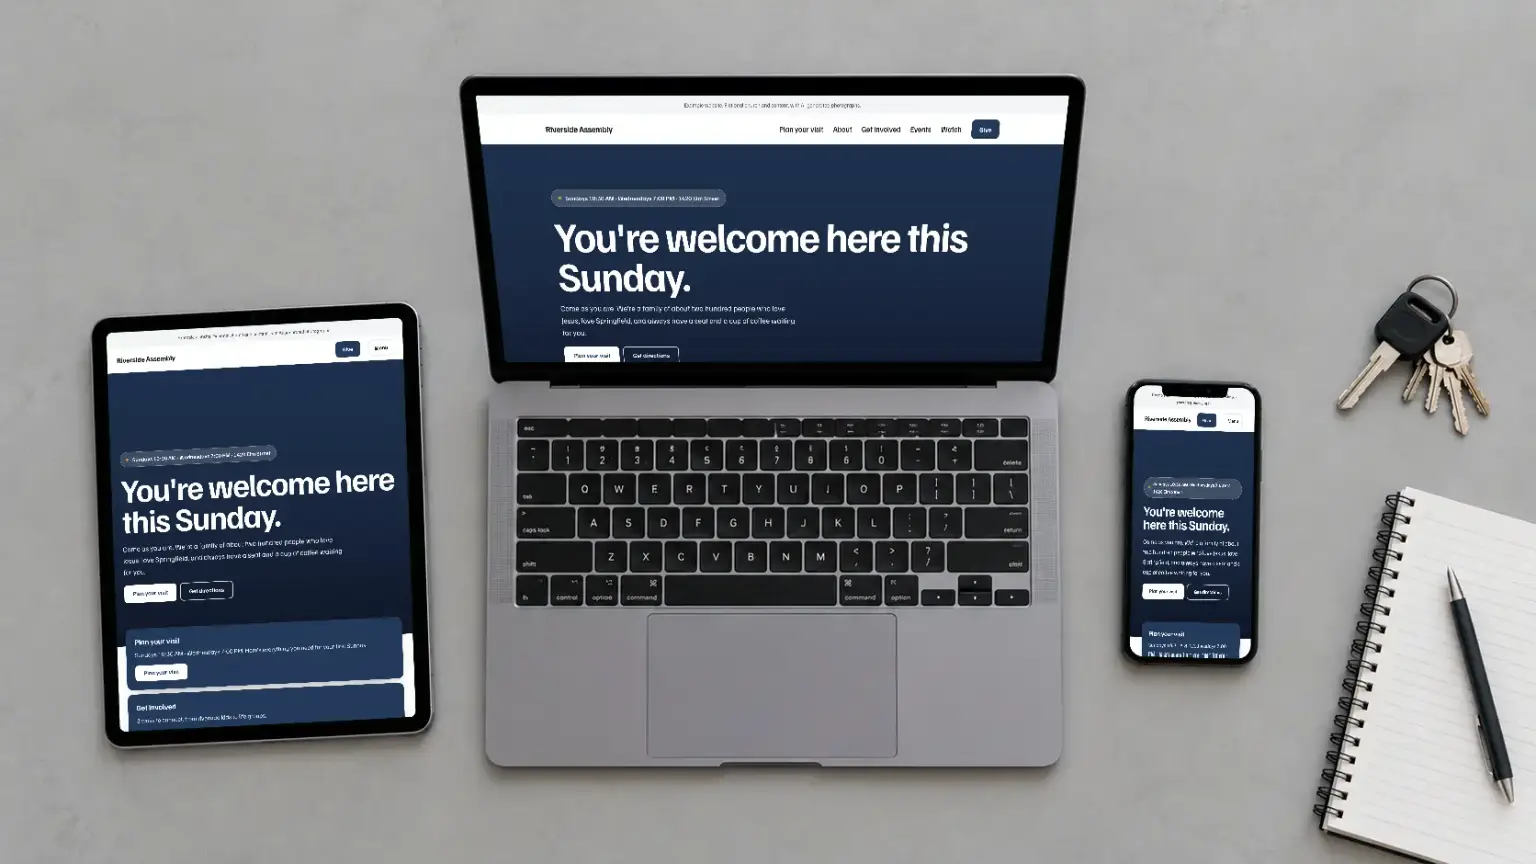
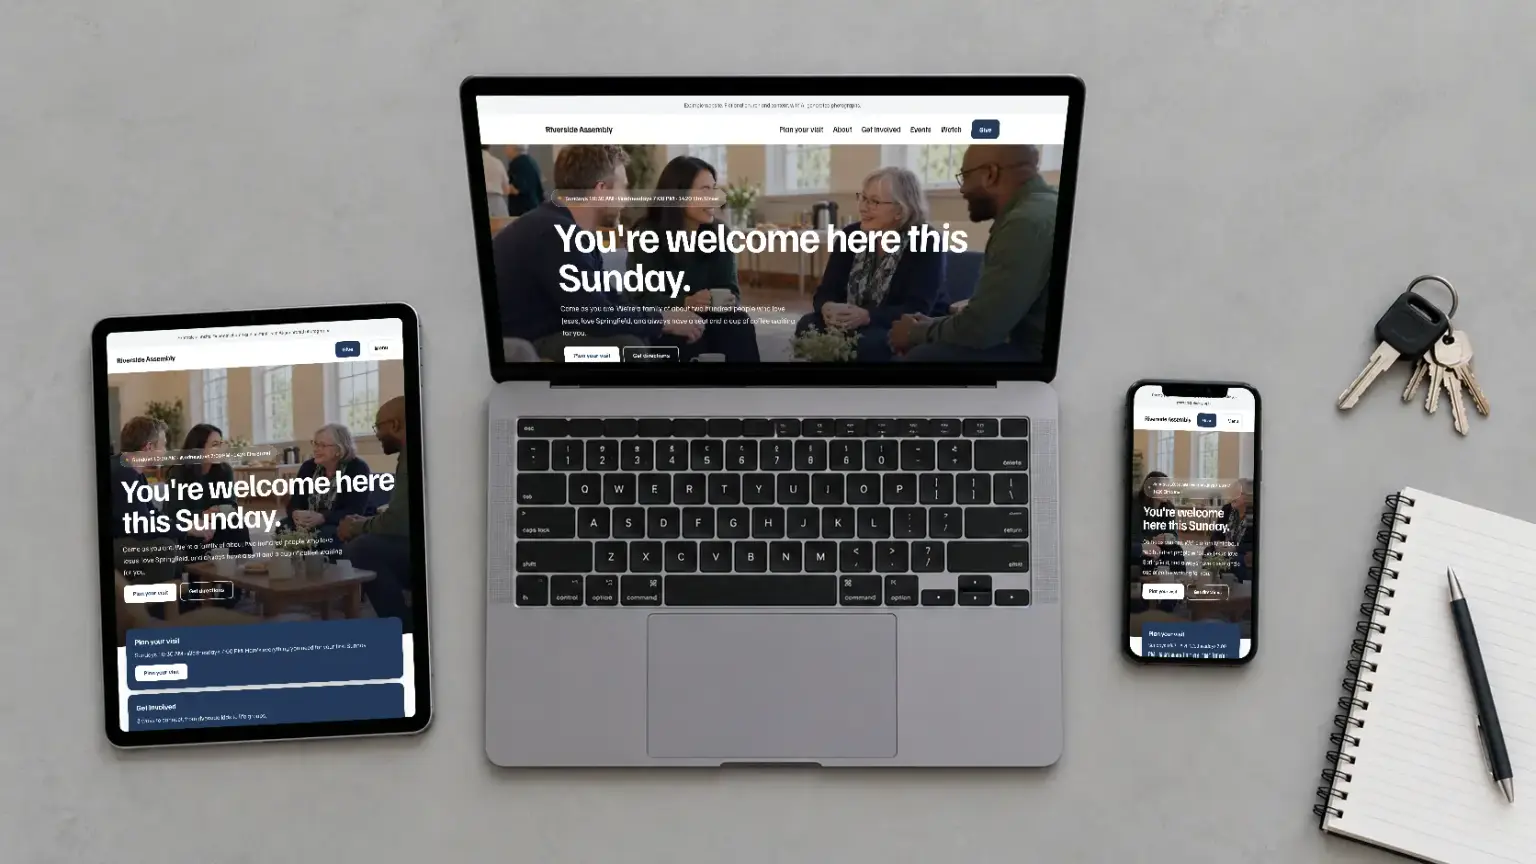
Show the product on /websites instead of people on phones
The page sold a website with stock-style photos of people holding phones.
It now leads with the product: the example church's real home page in a
browser window with the phone version in front of it, a phone showing the
plan-a-visit page with service times and map, the find-us section in a
browser, and a text-message exchange for how updates work. Screenshots are
of the fictional example church built with the template.

Changed region(s): [[0.3125, 0.1562, 0.6875, 0.4375], [0.0625, 0.4062, 0.2812, 0.75], [0.7188, 0.5, 0.8438, 0.75]]

diff --git a/src/app/websites/page.tsx b/src/app/websites/page.tsx
@@ -48,30 +48,25 @@ const COMPARISON = [
 
 const FEATURES = [
   {
-    image: "phone",
-    width: 900,
-    height: 1125,
-    alt: "Illustrative photograph of hands holding a phone showing an example church website at a café table.",
+    kind: "phone",
+    image: "visit-phone",
+    alt: "Plan a visit page of the example church on a phone: Sunday and Wednesday service times, the address, the service language and a map.",
     title: "Ready for someone's first Sunday.",
     body: "Service times and the address on every page, a real map with directions, and what to expect, kids and parking a tap away. Clear on a phone, where most visitors look first.",
   },
   {
-    image: "search",
-    width: 900,
-    height: 675,
-    alt: "Illustrative photograph of a man who just moved, looking at a church website on his phone among moving boxes.",
+    kind: "browser",
+    image: "find-us",
+    alt: "Find us section of the example church website: the street address, parking notes, directions and contact buttons, and a map with a pin on the church.",
     title: "Easy to find on Google, Maps and ChatGPT.",
     body: "Built the way search engines and AI assistants read a church: service times and address as real text, structured data, a sitemap and open doors for AI search. We can't promise rankings. We make sure your site isn't what's holding you back.",
   },
   {
-    image: "text-a-change",
-    width: 900,
-    height: 1125,
-    alt: "Illustrative photograph of a pastor typing a message on his phone in a small church office.",
+    kind: "messages",
     title: "Send the change. We'll handle the website.",
     body: "A new service time, a new photo, an Easter page. Text or email it to us and we make the change. Nobody at church has to learn a website editor.",
   },
-];
+] as const;
 
 const STEPS = [
   { title: "We build it first.", body: "Send us your current website. We move your words, photos and colors into a new site and send you a private preview link." },
@@ -164,17 +159,33 @@ export default function WebsitesPage() {
           </div>
           <p className={styles.quiet}>We build it first. You subscribe only if you like it.</p>
         </div>
-        {/* eslint-disable-next-line @next/next/no-img-element */}
-        <img
-          className={styles.heroImage}
-          src="/websites/hero-1536.webp"
-          srcSet="/websites/hero-800.webp 800w, /websites/hero-1536.webp 1536w"
-          sizes="(min-width: 960px) 520px, 100vw"
-          width={1536}
-          height={864}
-          alt="Illustrative photograph of a family walking to a small brick church, the father checking the church's website on his phone."
-          fetchPriority="high"
-        />
+        <figure className={styles.showcase}>
+          <div className={styles.browser}>
+            <div className={styles.browserBar} aria-hidden="true"><span /><span /><span /><em>yourchurch.org</em></div>
+            {/* eslint-disable-next-line @next/next/no-img-element */}
+            <img
+              src="/websites/site-desktop-1600.webp"
+              srcSet="/websites/site-desktop-960.webp 960w, /websites/site-desktop-1600.webp 1600w"
+              sizes="(min-width: 960px) 600px, 92vw"
+              width={1600}
+              height={1000}
+              alt="Home page of the example church website on a laptop: a photo of people talking over coffee, the headline You're welcome here this Sunday, service times and the street address, and buttons to plan a visit and get directions."
+              fetchPriority="high"
+            />
+          </div>
+          <div className={styles.phone}>
+            {/* eslint-disable-next-line @next/next/no-img-element */}
+            <img
+              src="/websites/site-phone-600.webp"
+              srcSet="/websites/site-phone-390.webp 390w, /websites/site-phone-600.webp 600w"
+              sizes="150px"
+              width={600}
+              height={1298}
+              alt="The same home page on a phone."
+            />
+          </div>
+          <figcaption className={styles.caption}>A real site from our template, for a fictional example church.</figcaption>
+        </figure>
       </section>
 
       <section className={styles.compare} aria-labelledby="compare-heading">
@@ -204,24 +215,50 @@ export default function WebsitesPage() {
       <section className={`${styles.wrap} ${styles.features}`} aria-label="What you get">
         {FEATURES.map((f) => (
           <article key={f.title} className={styles.feature}>
-            {/* eslint-disable-next-line @next/next/no-img-element */}
-            <img
-              src={`/websites/${f.image}-900.webp`}
-              srcSet={`/websites/${f.image}-480.webp 480w, /websites/${f.image}-900.webp 900w`}
-              sizes="(min-width: 760px) 280px, 100vw"
-              width={f.width}
-              height={f.height}
-              alt={f.alt}
-              loading="lazy"
-              decoding="async"
-            />
+            {f.kind === "phone" && (
+              <div className={styles.phone}>
+                {/* eslint-disable-next-line @next/next/no-img-element */}
+                <img
+                  src={`/websites/${f.image}-600.webp`}
+                  srcSet={`/websites/${f.image}-390.webp 390w, /websites/${f.image}-600.webp 600w`}
+                  sizes="220px"
+                  width={600}
+                  height={1298}
+                  alt={f.alt}
+                  loading="lazy"
+                  decoding="async"
+                />
+              </div>
+            )}
+            {f.kind === "browser" && (
+              <div className={styles.browser}>
+                <div className={styles.browserBar} aria-hidden="true"><span /><span /><span /><em>yourchurch.org</em></div>
+                {/* eslint-disable-next-line @next/next/no-img-element */}
+                <img
+                  src={`/websites/${f.image}-1600.webp`}
+                  srcSet={`/websites/${f.image}-960.webp 960w, /websites/${f.image}-1600.webp 1600w`}
+                  sizes="(min-width: 760px) 520px, 92vw"
+                  width={1600}
+                  height={618}
+                  alt={f.alt}
+                  loading="lazy"
+                  decoding="async"
+                />
+              </div>
+            )}
+            {f.kind === "messages" && (
+              <div className={styles.messages} role="img" aria-label="Example text messages: a pastor asks to add a Christmas Eve service on December 24 at 6 PM, and GospelChannel replies that it is on the events page and the home page.">
+                <p className={styles.them}>Can you add our Christmas Eve service? Dec 24, 6 PM, same address.</p>
+                <p className={styles.us}>Done. It&apos;s on your Events page and on the home page until Christmas.</p>
+              </div>
+            )}
             <div>
               <h2>{f.title}</h2>
               <p>{f.body}</p>
             </div>
           </article>
         ))}
-        <p className={styles.note}>Illustrative photographs. The screens show our fictional example church. Your website uses your own photographs.</p>
+        <p className={styles.note}>Screens show our fictional example church. Your website uses your own words and photographs.</p>
       </section>
 
       <section className={styles.steps} aria-labelledby="how-heading">
@@ -249,7 +286,7 @@ export default function WebsitesPage() {
             sizes="(min-width: 960px) 480px, 100vw"
             width={1536}
             height={864}
-            alt="Illustrative photograph of a laptop, tablet and phone on a desk, each showing the same example church website."
+            alt="Laptop, tablet and phone on a desk, each showing the same example church website."
             loading="lazy"
             decoding="async"
           />

diff --git a/src/app/websites/websites.module.css b/src/app/websites/websites.module.css
@@ -45,7 +45,24 @@
 .price { color: var(--muted); }
 .price strong { font-size: 28px; color: var(--ink); letter-spacing: -0.02em; }
 .quiet { font-size: 15px; margin-top: 14px !important; }
-.heroImage { width: 100%; border-radius: 14px; aspect-ratio: 16 / 9; object-fit: cover; }
+
+/* product frames: a browser window and a phone, both showing real screenshots */
+.showcase { position: relative; margin: 0; padding: 0 0 56px; }
+.browser { border-radius: 12px; overflow: hidden; background: #fff; box-shadow: 0 0 0 1px var(--line), 0 24px 60px -24px rgba(24, 35, 51, 0.35); }
+.browserBar { display: flex; align-items: center; gap: 6px; height: 30px; padding: 0 12px; background: var(--soft); border-bottom: 1px solid var(--line); }
+.browserBar span { width: 9px; height: 9px; border-radius: 50%; background: #d3d9e1; }
+.browserBar em { margin-left: 10px; padding: 2px 12px; border-radius: 6px; background: #fff; color: var(--muted); font-size: 11px; font-style: normal; }
+.browser img { width: 100%; }
+.phone { width: 100%; max-width: 220px; padding: 7px; border-radius: 30px; background: #111823; box-shadow: 0 24px 50px -20px rgba(24, 35, 51, 0.45); }
+.phone img { width: 100%; border-radius: 23px; aspect-ratio: 390 / 760; object-fit: cover; object-position: top; }
+.showcase .phone { position: absolute; right: -8px; bottom: 0; width: 34%; max-width: 168px; }
+.caption { margin-top: 14px; font-size: 13px; color: var(--muted); max-width: 60%; }
+
+/* the "send us a change" exchange */
+.messages { display: flex; flex-direction: column; gap: 10px; width: 100%; max-width: 340px; padding: 22px; border-radius: 18px; background: var(--soft); }
+.messages p { max-width: 85%; margin: 0; padding: 10px 14px; border-radius: 18px; font-size: 15px !important; line-height: 1.4; }
+.them { align-self: flex-start; background: #fff; color: var(--ink) !important; border-bottom-left-radius: 6px; box-shadow: 0 0 0 1px var(--line); }
+.us { align-self: flex-end; background: var(--navy); color: #fff !important; border-bottom-right-radius: 6px; }
 
 /* comparison */
 .compare { background: var(--soft); padding-block: 64px; }
@@ -64,7 +81,6 @@
 .features { padding-block: 48px 64px; }
 .feature { display: grid; gap: 20px; align-items: center; padding-block: 28px; border-top: 1px solid var(--line); }
 .feature:first-child { border-top: 0; }
-.feature img { width: 100%; max-width: 280px; aspect-ratio: 4 / 5; object-fit: cover; border-radius: 12px; }
 .feature h2 { font-size: clamp(26px, 3vw, 34px); }
 .feature p { margin-top: 12px !important; }
 
@@ -96,7 +112,8 @@
 .listing { font-size: 15px; color: var(--muted); padding-block: 28px 0; }
 
 @media (min-width: 760px) {
-  .feature { grid-template-columns: 280px minmax(0, 1fr); gap: 44px; }
+  .feature { grid-template-columns: minmax(0, 1fr) minmax(0, 1fr); gap: 56px; }
+  .feature > .phone, .feature > .messages { justify-self: center; }
   .steps ol { grid-template-columns: repeat(3, minmax(0, 1fr)); gap: 36px; }
   .request { flex-direction: row; align-items: center; justify-content: space-between; }
   .requestActions { align-items: flex-end; }
